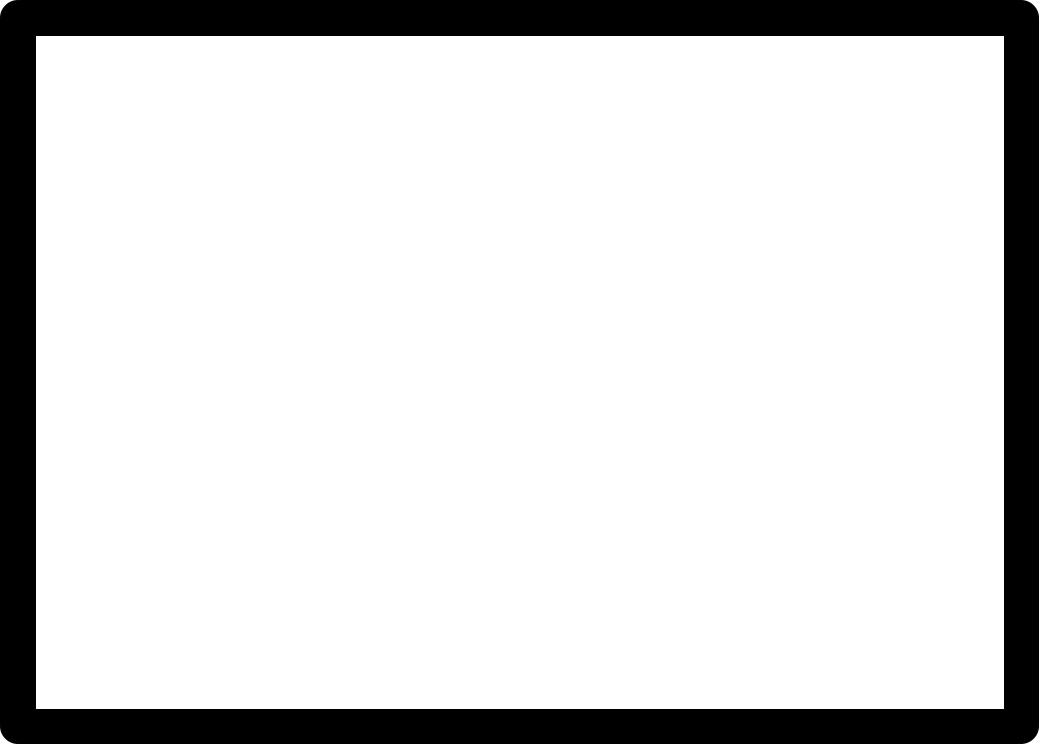
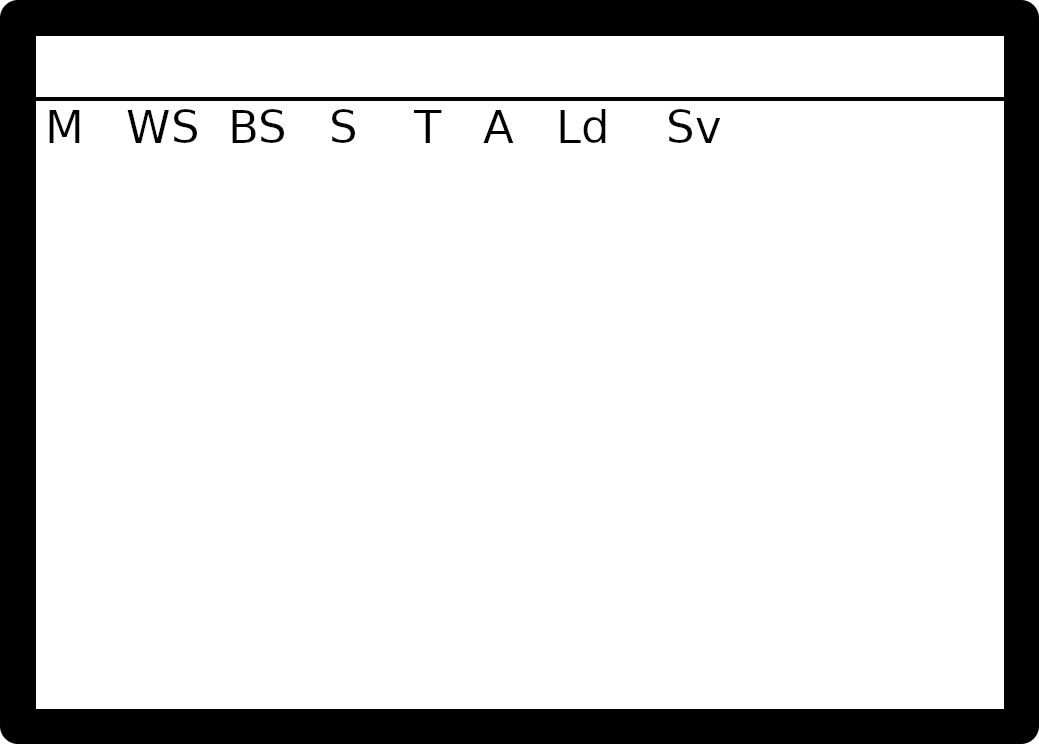
Add stats to cards

Changed region(s): [[0.0308, 0.1237, 0.9548, 0.2164]]

diff --git a/thriller/thriller.py b/thriller/thriller.py
@@ -11,10 +11,33 @@ def main():
 def createCard(ork):
     template = Image('cardtemplate.png')
     name = ork.name()
-    
+    # Name 
     template.fontPointsize(50)
     drawableName = DrawableText(38, 84, name)
     template.draw(drawableName)
+
+    # Stats
+
+    template.fontPointsize(45)
+
+    drawableM = DrawableText(52, 185, ork.stats()['M'])
+    drawableWS = DrawableText(135, 185, ork.stats()['WS'])
+    drawableBS = DrawableText(230, 185, ork.stats()['BS'])
+    drawableS = DrawableText(330, 185, ork.stats()['S'])
+    drawableT = DrawableText(416, 185, ork.stats()['T'])
+    drawableA = DrawableText(485, 185, ork.stats()['A'])
+    drawableLd = DrawableText(566, 185, ork.stats()['Ld'])
+    drawableSv = DrawableText(665, 185, ork.stats()['Sv'])
+
+    template.draw(drawableM)
+    template.draw(drawableWS)
+    template.draw(drawableBS)
+    template.draw(drawableS)
+    template.draw(drawableT)
+    template.draw(drawableA)
+    template.draw(drawableLd)
+    template.draw(drawableSv)
+
     template.write(name+'.png')
 
 
@@ -42,4 +65,4 @@ def createOrks():
     return orks
 
 if (__name__ == "__main__"):
-    main()
+    main
